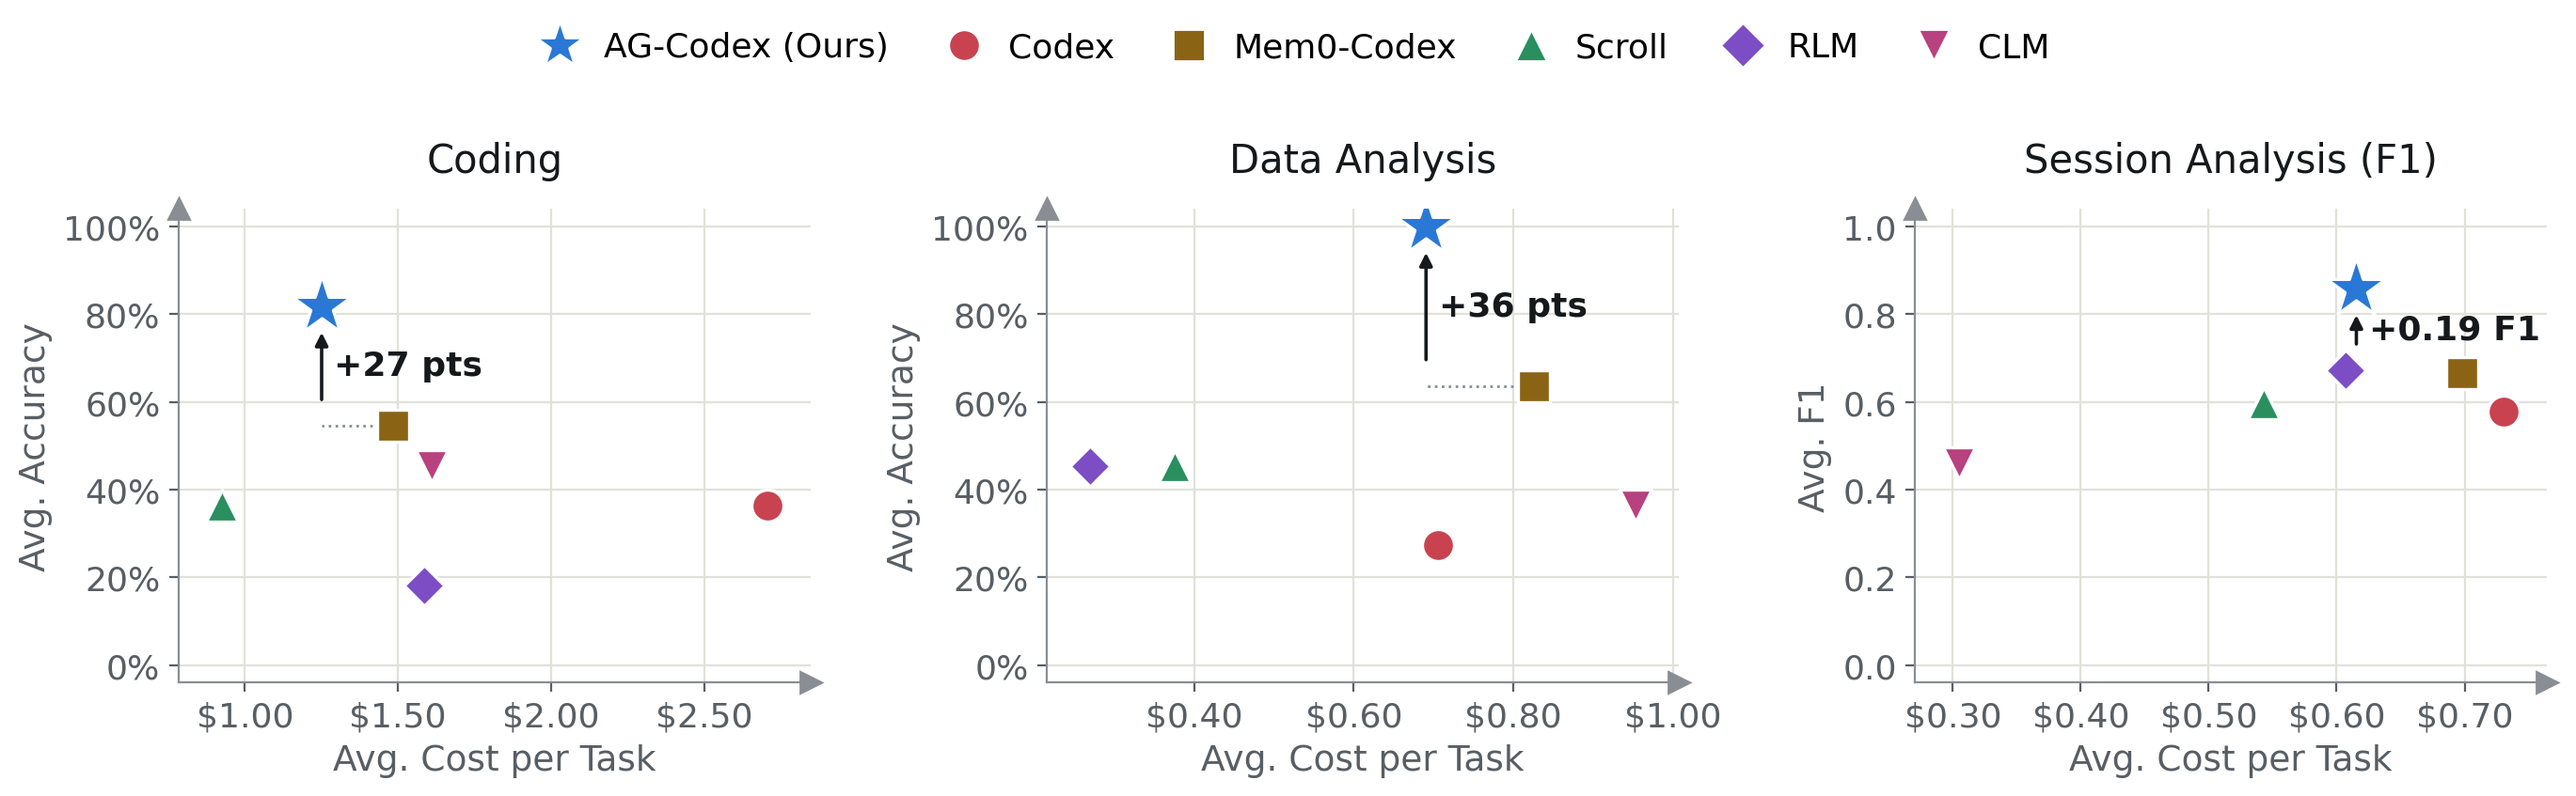
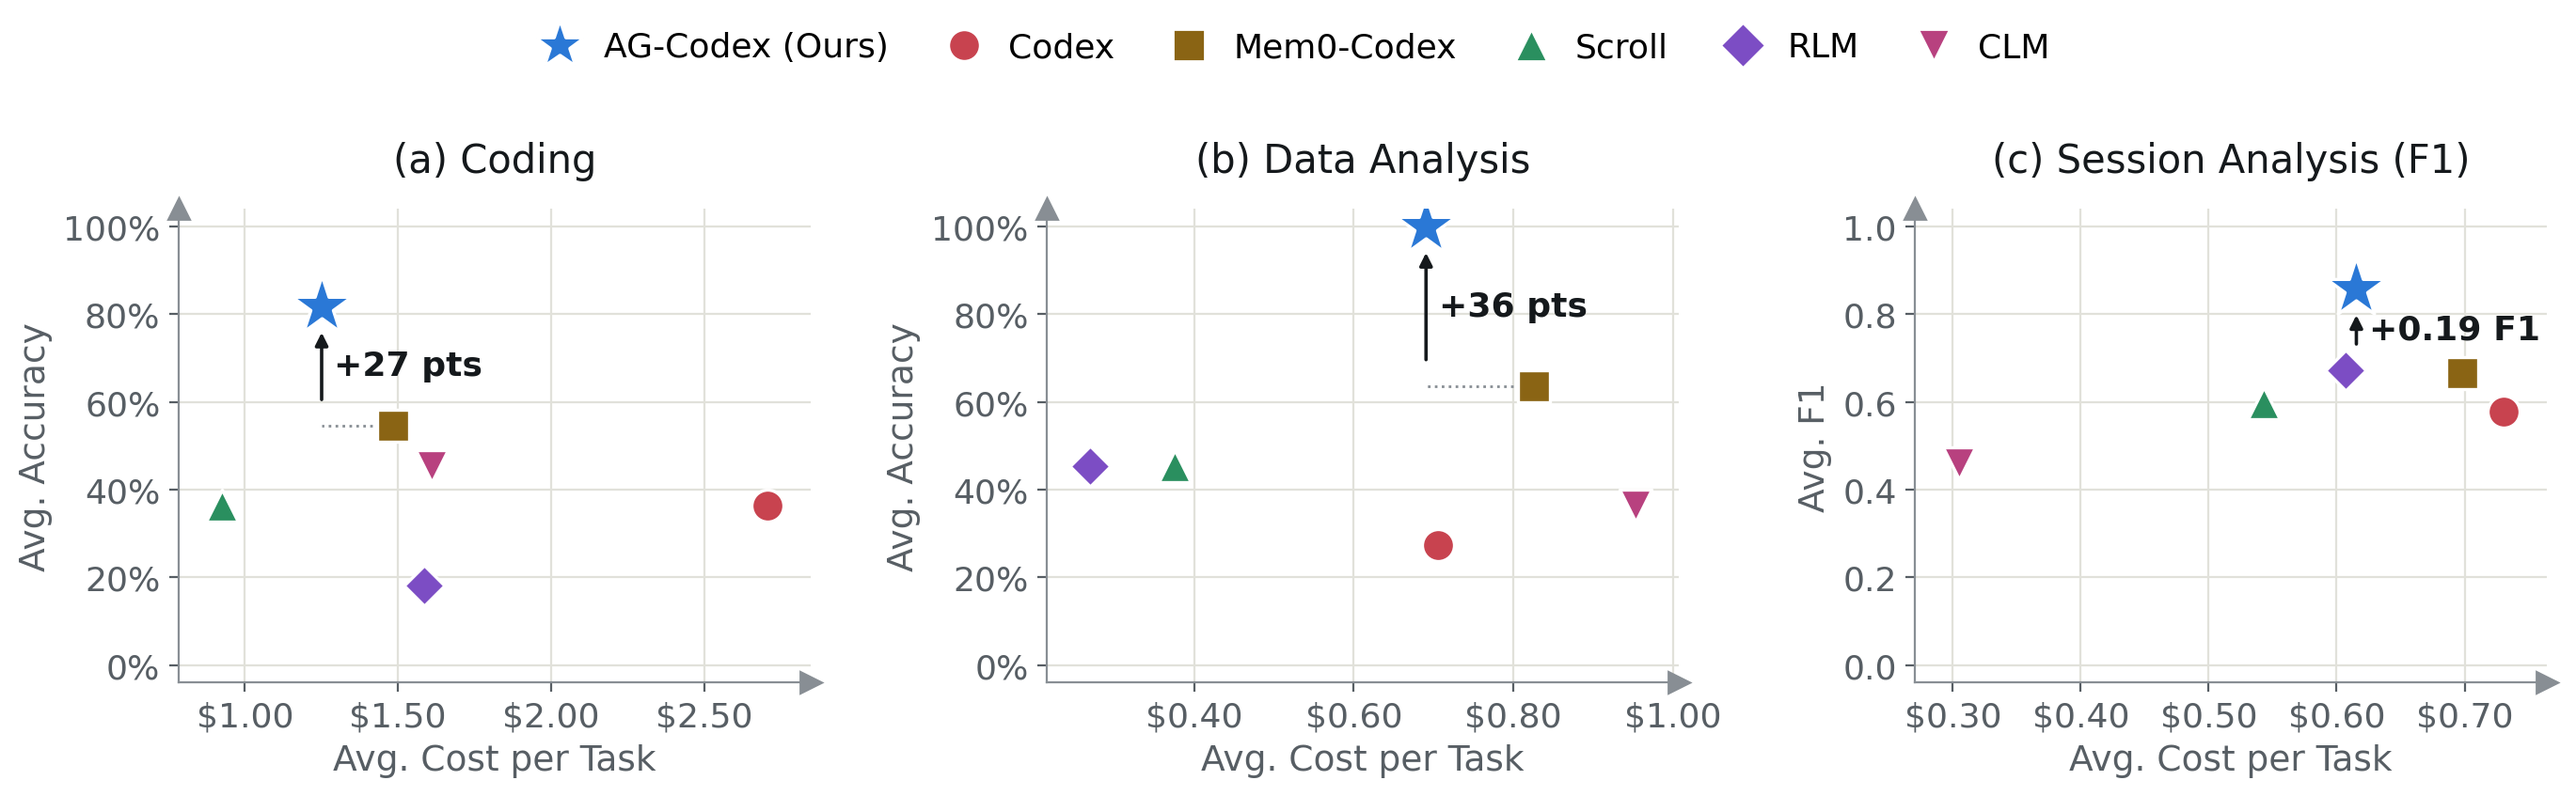
Add (a)-(c) panel titles to single-agent and harness figures

Changed region(s): [[0.7758, 0.1842, 0.962, 0.2456], [0.4655, 0.1842, 0.5896, 0.2149], [0.1552, 0.1842, 0.2483, 0.2456]]

diff --git a/blog.html b/blog.html
@@ -48,7 +48,7 @@
   <h4>Results</h4>
   <p>AG-Codex outperforms the baselines on all three tasks. On coding, RLMs perform poorly, as they often do not look for the specification in their history. Scroll performs better than RLM, as it maintains a summary of past actions that allows the agent to obtain the past specification. Codex frequently loses the specification during compaction, which is sometimes recovered by Mem0.</p>
   <p>On data analysis, AG-Codex improves accuracy by 36 points over the best baseline, and all tool-based baselines perform significantly worse than on coding. The main challenge here is that agents often do not know that past information is needed and can be relevant, and often answer the question without looking at the history at all. Mem0, which automatically retrieves relevant information and includes it in context, performs better, as it sometimes correctly retrieves the needed information; failures occur when it either does not retrieve the relevant information or the relevant information is not included in its memories at all. On session analysis, the baselines perform worse on questions whose answers are harder to retrieve using keyword search or embeddings.</p>
-  <figure class="wide full"><img src="figures/single_agent.png" alt="Accuracy (F1-score for session analysis) versus cost per task on the coding, data analysis and session analysis benchmarks for AG-Codex, Codex, Mem0-Codex, Scroll, RLM and CLM. AG-Codex is best on all three: +27 points on coding, +36 points on data analysis and +0.19 F1 on session analysis over the best baseline."><figcaption>Single-agent results: accuracy (F1-score for session analysis) vs. cost per task.</figcaption></figure>
+  <figure class="wide full"><img src="figures/single_agent.png?v=2" alt="Accuracy (F1-score for session analysis) versus cost per task on the coding, data analysis and session analysis benchmarks for AG-Codex, Codex, Mem0-Codex, Scroll, RLM and CLM. AG-Codex is best on all three: +27 points on coding, +36 points on data analysis and +0.19 F1 on session analysis over the best baseline."><figcaption>Single-agent results: accuracy (F1-score for session analysis) vs. cost per task.</figcaption></figure>
 
   <h3>Multi-agent environments</h3>
   <h4>Setup</h4>
@@ -65,7 +65,7 @@
 
   <h3>Different harnesses</h3>
   <p>Finally, we compare using the Actor-Gatherer framework in different harnesses on the coding task discussed earlier, on top of Codex, Claude Code, Pi and OpenCode. Accuracy is similar across harnesses. AG-Pi was the fastest and cheapest in general, which we observed is because it performs less validation after it generates a first answer.</p>
-  <figure class="wide full"><img src="figures/harnesses.png" alt="Accuracy, cost and latency per task for AG-Codex, AG-Pi, AG-OpenCode and AG-ClaudeCode on the coding task."><figcaption>Actor-Gatherer across harnesses: accuracy, cost and latency per task.</figcaption></figure>
+  <figure class="wide full"><img src="figures/harnesses.png?v=2" alt="Accuracy, cost and latency per task for AG-Codex, AG-Pi, AG-OpenCode and AG-ClaudeCode on the coding task."><figcaption>Actor-Gatherer across harnesses: accuracy, cost and latency per task.</figcaption></figure>
 
   <h2 id="framework">Context Management Details</h2>
   <p>Given the information stored in the Gatherer database, the context management policy decides, for every LLM call the harness makes, what context the LLM should be provided with. Identifying and including relevant information for a task is challenging for multiple reasons. As mentioned earlier, a major challenge is identifying unknown unknowns based on the given task. Identifying such information often requires reasoning over past traces and cannot be done with simple retrieval methods. Moreover, the method needs to balance cost/latency/accuracy trade-offs when deciding what context to provide to the LLM, and at what granularity. For example, changing the model context can invalidate the KV-cache, which can increase cost and latency, and is thus only worth doing when modifying the context is expected to improve accuracy. Similarly, spending more time identifying more relevant context worsens latency, which is only worth it if it is expected to improve accuracy.</p>
